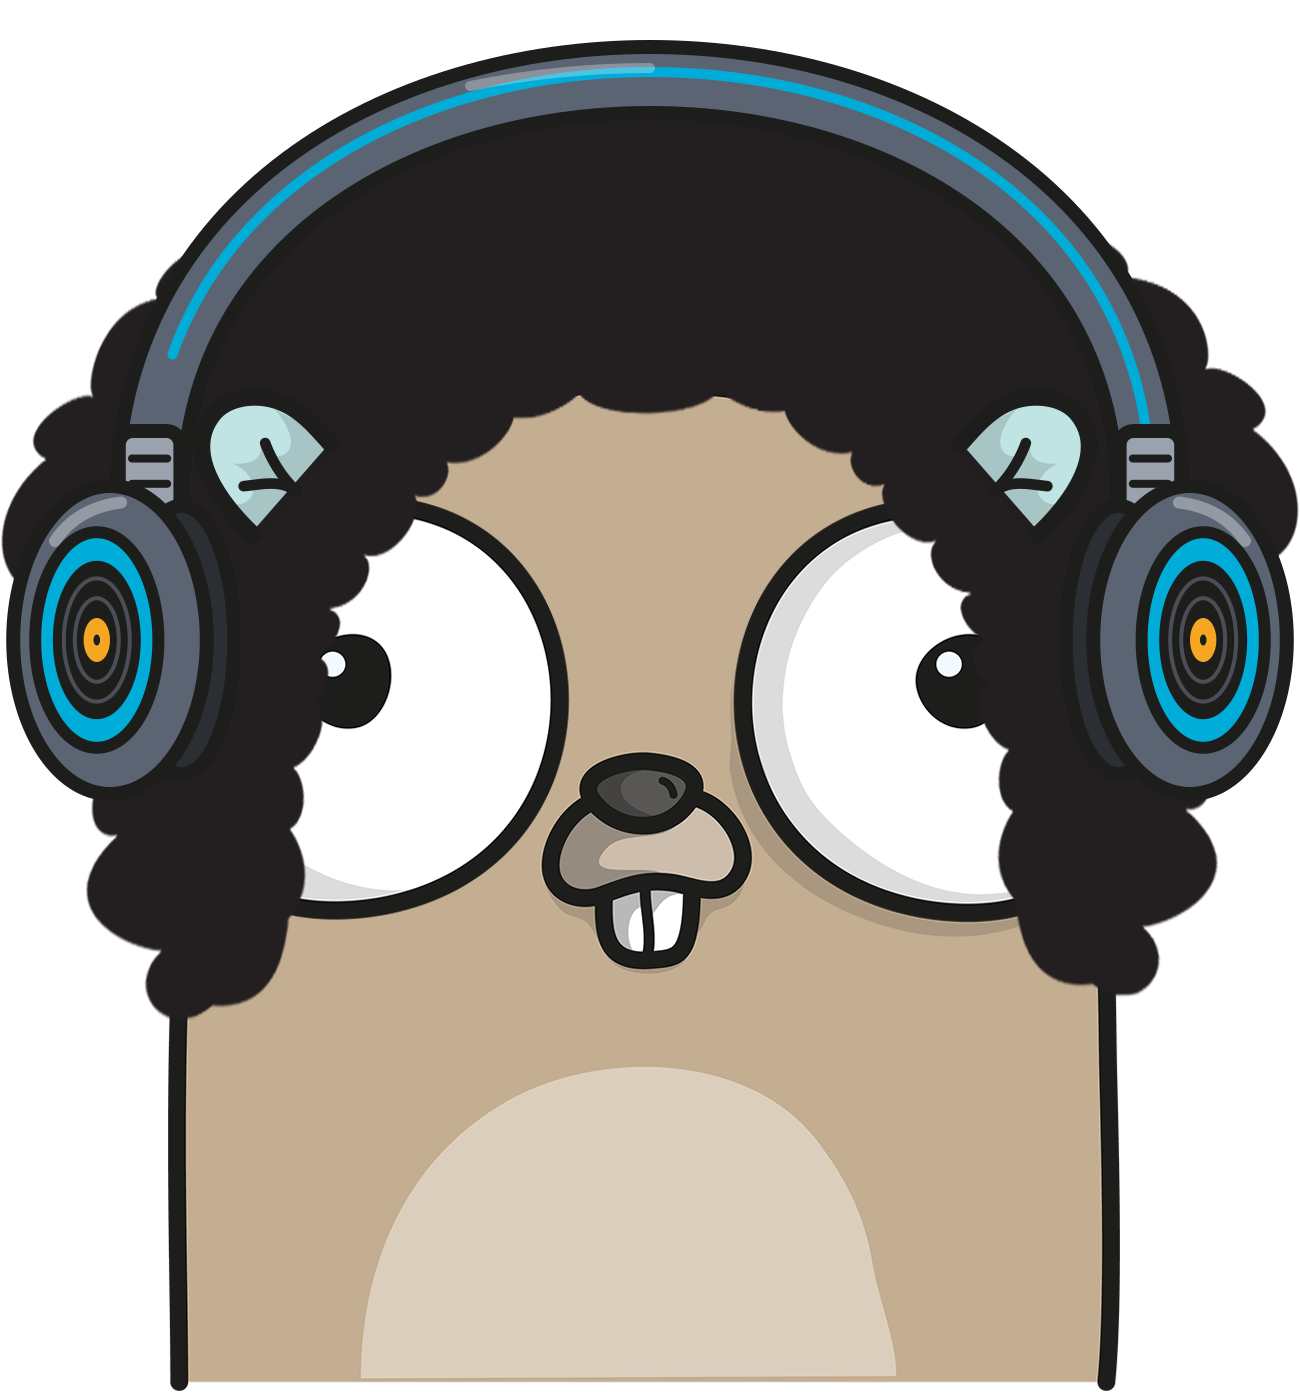
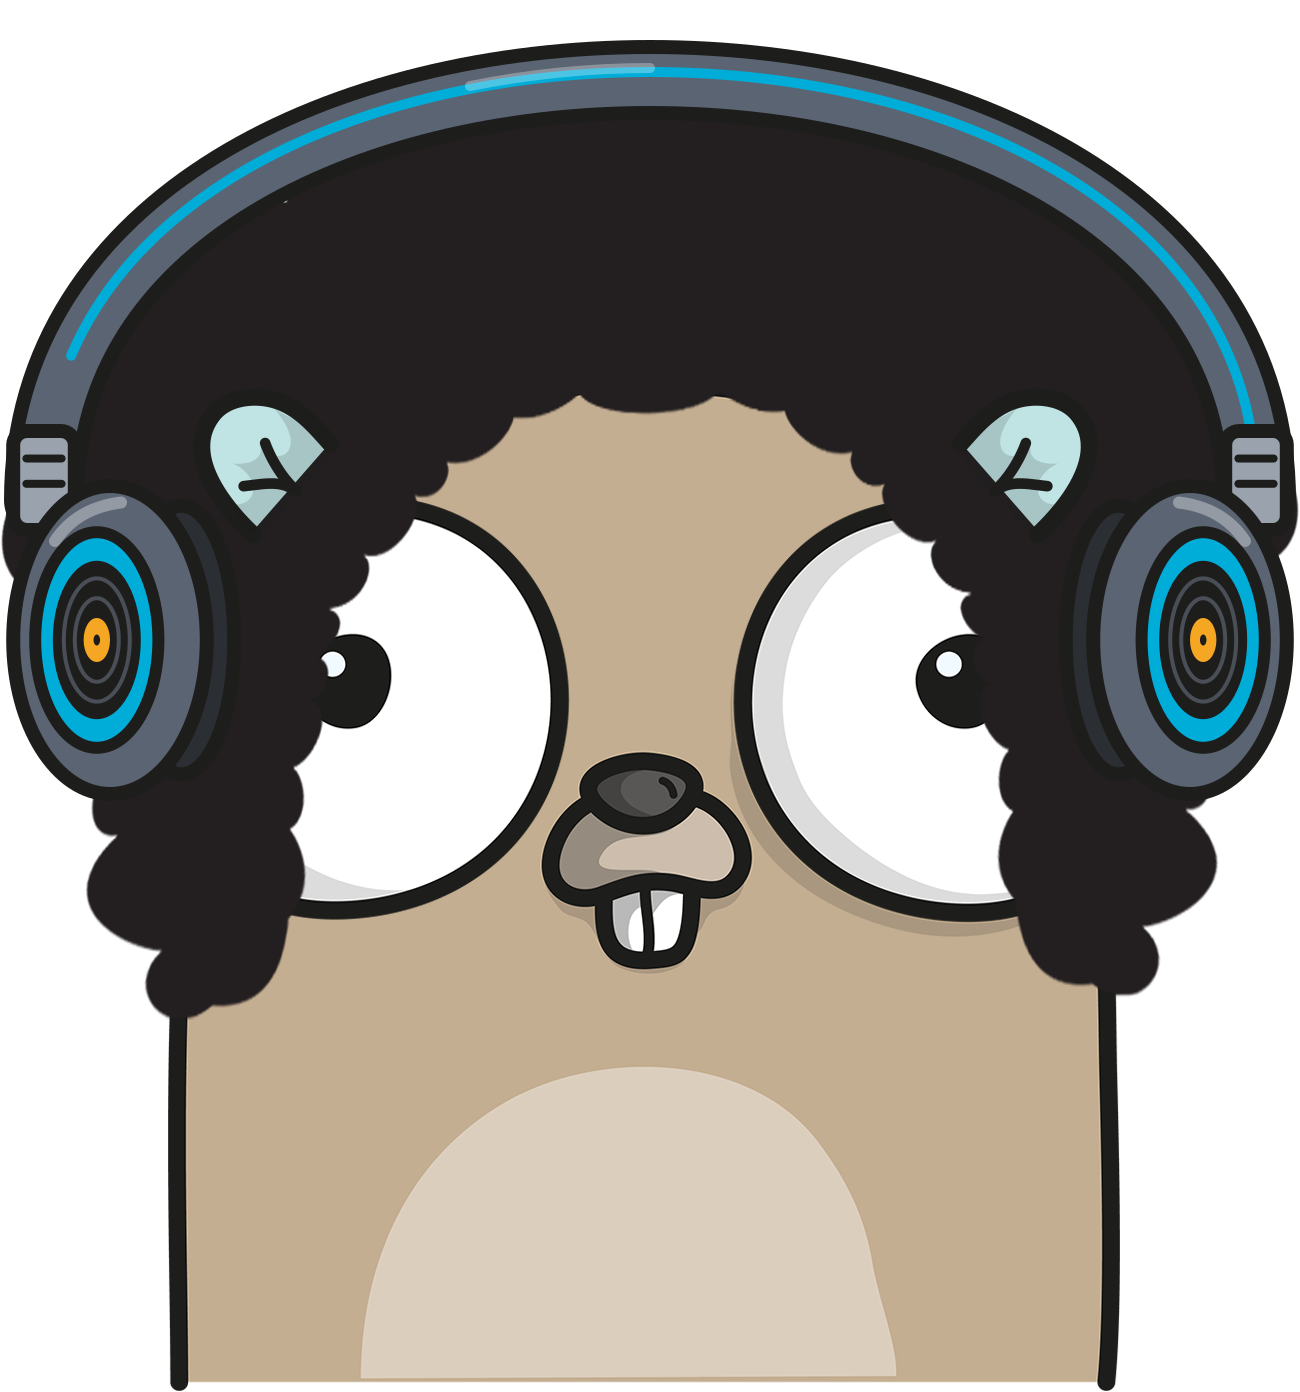
Move DJ gopher headband to the outside of the earcups

Changed region(s): [[0.0, 0.0309, 0.4615, 0.3707], [0.5538, 0.0309, 1.0, 0.3707]]

diff --git a/images/dj-headphones/make.py b/images/dj-headphones/make.py
@@ -1,0 +1,41 @@
+import sys
+K="#1d1d1b"
+def side(cx, cy, s):
+    def e(dx, rx, ry, **kw):
+        a=" ".join(f'{k.replace("_","-")}="{v}"' for k,v in kw.items())
+        return f'<ellipse cx="{cx+dx*s:.1f}" cy="{cy}" rx="{rx*s:.1f}" ry="{ry*s:.1f}" {a}/>'
+    sw=14
+    out=[]
+    out.append(f'<rect x="{cx-88*s:.1f}" y="{cy-190*s:.1f}" width="{56*s:.1f}" height="{90*s:.1f}" rx="14" fill="#9aa3ad" stroke="{K}" stroke-width="{sw}"/>')
+    for dy in (165,142):
+        out.append(f'<line x1="{cx-76*s:.1f}" y1="{cy-dy*s:.1f}" x2="{cx-44*s:.1f}" y2="{cy-dy*s:.1f}" stroke="{K}" stroke-width="8" stroke-linecap="round"/>')
+    out.append(e(65,48,122,fill="#2b2e33",stroke=K,stroke_width=sw))
+    out.append(e(0,88,140,fill="#5b6472",stroke=K,stroke_width=sw))
+    out.append(f'<path d="M {cx-50*s:.1f} {cy-90*s:.1f} Q {cx-30*s:.1f} {cy-120*s:.1f} {cx+10*s:.1f} {cy-125*s:.1f}" fill="none" stroke="#fff" stroke-opacity="0.35" stroke-width="12" stroke-linecap="round"/>')
+    out.append(e(-12,56,98,fill="#00add8",stroke=K,stroke_width=12))
+    out.append(e(-12,40,72,fill=K))
+    out.append(e(-12,30,56,fill="none",stroke="#4a4f57",stroke_width=4))
+    out.append(e(-12,20,38,fill="none",stroke="#4a4f57",stroke_width=4))
+    out.append(e(-12,12,20,fill="#f5a623"))
+    out.append(e(-12,3,5,fill=K))
+    return "\n".join(out)
+
+def svg(cx, cy, s, end_y, ctrl_y):
+    xl, xr = cx-60*s, 1300-(cx-60*s)
+    band=f"M {xl:.1f} {end_y} C {xl:.1f} {ctrl_y}, {xr:.1f} {ctrl_y}, {xr:.1f} {end_y}"
+    peak=0.25*end_y+0.75*ctrl_y
+    stripe_off=26
+    parts=[f'<path d="{band}" fill="none" stroke="{K}" stroke-width="80" stroke-linecap="round"/>',
+           f'<path d="{band}" fill="none" stroke="#5b6472" stroke-width="52" stroke-linecap="round"/>',
+           f'<path d="{band}" fill="none" stroke="#00add8" stroke-width="10" stroke-linecap="round" stroke-dasharray="0 140 100000" transform="translate(0 -8)"/>',
+           f'<path d="M 470 {peak-12+18:.1f} Q 560 {peak-12:.1f} 650 {peak-12:.1f}" fill="none" stroke="#fff" stroke-opacity="0.3" stroke-width="10" stroke-linecap="round"/>',
+           side(cx, cy, s),
+           f'<g transform="translate(1300 0) scale(-1 1)">{side(cx, cy, s)}</g>']
+    return '<svg xmlns="http://www.w3.org/2000/svg" width="1300" height="1392" viewBox="0 0 1300 1392">\n'+"\n".join(parts)+"\n</svg>\n"
+
+variants={
+  "dj_headphones": dict(cx=140, cy=710, s=1.0, end_y=600, ctrl_y=200),
+  "dj_headphones_afro": dict(cx=110, cy=640, s=1.1, end_y=500, ctrl_y=-60),
+}
+for name,p in variants.items():
+    open(f"{sys.argv[1]}/{name}.svg","w").write(svg(**p))
